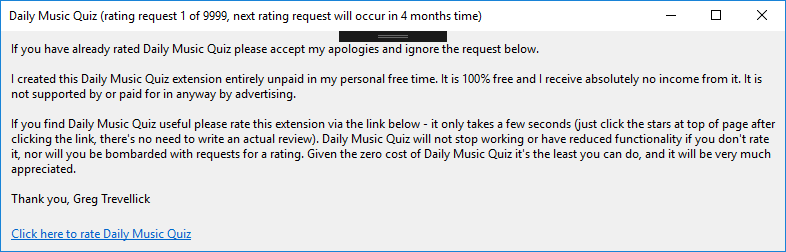
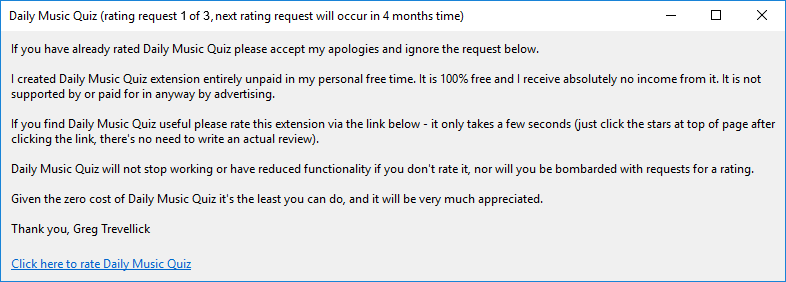
.

diff --git a/src/VsixRatingChaser/ChaseSettings.cs b/src/VsixRatingChaser/ChaseSettings.cs
@@ -4,6 +4,6 @@
     {
         internal const string MarketplaceUrlPrefix = "https://marketplace.visualstudio.com/items?itemName=";
         internal static int RatingRequestGapInMonths = 4;
-        internal static int RatingRequestLimit =3;//gregt 3;
+        internal static int RatingRequestLimit = 9;//gregt 3;
     }
 }
